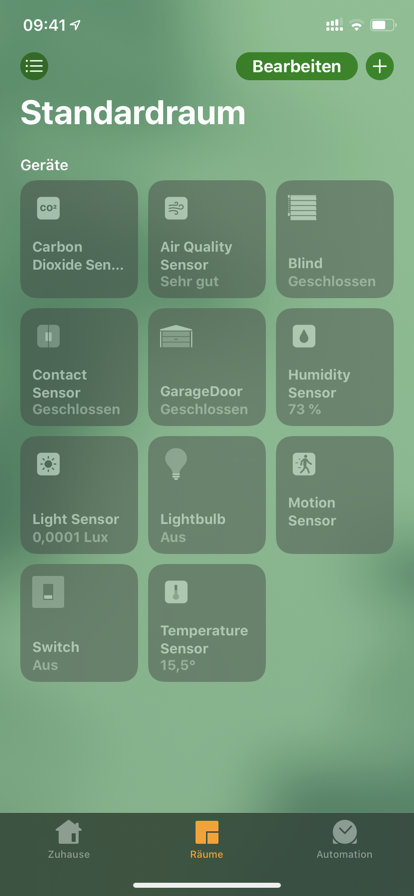
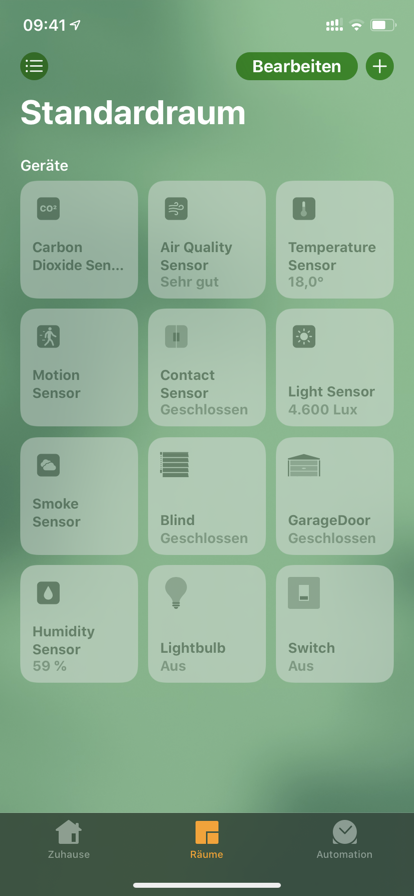
Update to 0.1.14

diff --git a/src/index.ts b/src/index.ts
@@ -11,6 +11,7 @@ import { LightbulbAccessory } from "./util/accessories/LightbulbAccessory"
 import { LightSensor } from "./util/accessories/LightSensor"
 import { MotionSensor } from "./util/accessories/MotionSensor"
 import { ContactSensor } from "./util/accessories/ContactSensor"
+import { SmokeSensor } from "./util/accessories/SmokeSensor"
 import { TemperatureSensor } from "./util/accessories/TemperatureSensor"
 import { HumiditySensor } from "./util/accessories/HumiditySensor"
 import { CarbonDioxideSensor } from "./util/accessories/CarbonDioxideSensor"
@@ -61,6 +62,7 @@ class LogoAccessory {
   lightSensorService:         any;
   motionSensorService:        any;
   contactSensorService:       any;
+  smokeSensorService:         any;
   temperatureSensorService:   any;
   humiditySensorService:      any;
   carbonDioxideSensorService: any;
@@ -73,6 +75,7 @@ class LogoAccessory {
   lightSensor:         LightSensor         | undefined;
   motionSensor:        MotionSensor        | undefined;
   contactSensor:       ContactSensor       | undefined;
+  smokeSensor:         SmokeSensor         | undefined;
   temperatureSensor:   TemperatureSensor   | undefined;
   humiditySensor:      HumiditySensor      | undefined;
   carbonDioxideSensor: CarbonDioxideSensor | undefined;
@@ -325,6 +328,34 @@ class LogoAccessory {
     }
 
     //
+    // LOGO! Smoke Sensor Service
+    //
+
+    if (this.type == SmokeSensor.smokeSensorType) {
+
+      this.smokeSensor = new SmokeSensor(this.log, this.logo, this.updateInterval, this.debugMsgLog, Characteristic);
+
+      const smokeSensorService = new Service.SmokeSensor(
+        this.name,
+        SmokeSensor.smokeSensorType,
+      );
+
+      smokeSensorService
+        .getCharacteristic(Characteristic.StatusActive)
+        .on("get", callbackify(this.smokeSensor.getStatusActive));
+
+        smokeSensorService
+        .getCharacteristic(Characteristic.SmokeDetected)
+        .on("get", callbackify(this.smokeSensor.getSmokeDetected));
+
+      this.smokeSensorService = smokeSensorService;
+
+      this.smokeSensor.smokeSensorService = this.smokeSensorService;
+      this.smokeSensor.smokeDetected      = config["smokeDetected"] || "M12";
+
+    }
+
+    //
     // LOGO! Temperature Sensor Service
     //
 
@@ -470,6 +501,9 @@ class LogoAccessory {
 
     } else if (this.type == ContactSensor.contactSensorType) {
       return [ this.contactSensorService ];
+
+    } else if (this.type == SmokeSensor.smokeSensorType) {
+      return [ this.smokeSensorService ];
 
     } else if (this.type == TemperatureSensor.temperatureSensorType) {
       return [ this.temperatureSensorService ];

diff --git a/src/util/accessories/SmokeSensor.ts b/src/util/accessories/SmokeSensor.ts
@@ -1,0 +1,103 @@
+import { wait } from "../wait";
+
+let Characteristic: any;
+
+export class SmokeSensor {
+
+  static smokeSensorType: string = "smokeSensor";
+
+  public smokeSensorService: any;
+  public smokeDetected: string = "M12";
+
+  log: Function;
+  logo: any;
+  updateInterval: number;
+  debugMsgLog: number;
+  updateTimer: any;
+
+  constructor(log: Function, 
+              logo: any,
+              updateInterval: number,
+              debugMsgLog: number,
+              characteristic: any
+              ) {
+
+    this.log            = log;
+    this.logo           = logo;
+    this.updateInterval = updateInterval,
+    this.debugMsgLog    = debugMsgLog,
+    Characteristic      = characteristic;
+
+    if (this.updateInterval > 0) {
+      this.smokeSensorAutoUpdate();
+    }
+
+  }
+
+  //
+  // LOGO! Smoke Sensor Service
+  //
+
+  getStatusActive = async () => {
+    return true;
+  };
+
+  getSmokeDetected = async () => {
+    // SMOKE_NOT_DETECTED = 0; SMOKE_DETECTED = 1;
+
+    // Cancel timer if the call came from the Home-App and not from the update interval.
+    // To avoid duplicate queries at the same time.
+    if (this.updateInterval > 0) {
+      clearTimeout(this.updateTimer);
+      this.updateTimer = 0;
+    }
+
+    this.logo.ReadLogo(this.smokeDetected, async (value: number) => {
+
+      if (value != -1) {
+
+        this.debugLogNum("SmokeSensorState ?", value);
+
+        await wait(1);
+
+        this.smokeSensorService.updateCharacteristic(
+          Characteristic.SmokeDetected,
+          value
+        );
+
+      }
+
+      if (this.updateInterval > 0) {
+        this.smokeSensorAutoUpdate();
+      }
+
+    });
+
+  };
+
+  //
+  // Helper Functions
+  //
+
+  debugLogNum(msg: string, num: number) {
+    if (this.debugMsgLog == 1) {
+      this.log(msg, num);
+    }
+  }
+  debugLogBool(msg: string, bool: boolean) {
+    if (this.debugMsgLog == 1) {
+      this.log(msg, bool);
+    }
+  }
+
+  smokeSensorAutoUpdate() {
+
+    this.updateTimer = setTimeout(() => {
+
+      this.getSmokeDetected();
+
+    }, this.updateInterval + Math.floor(Math.random() * 10000));
+
+  }
+
+}
